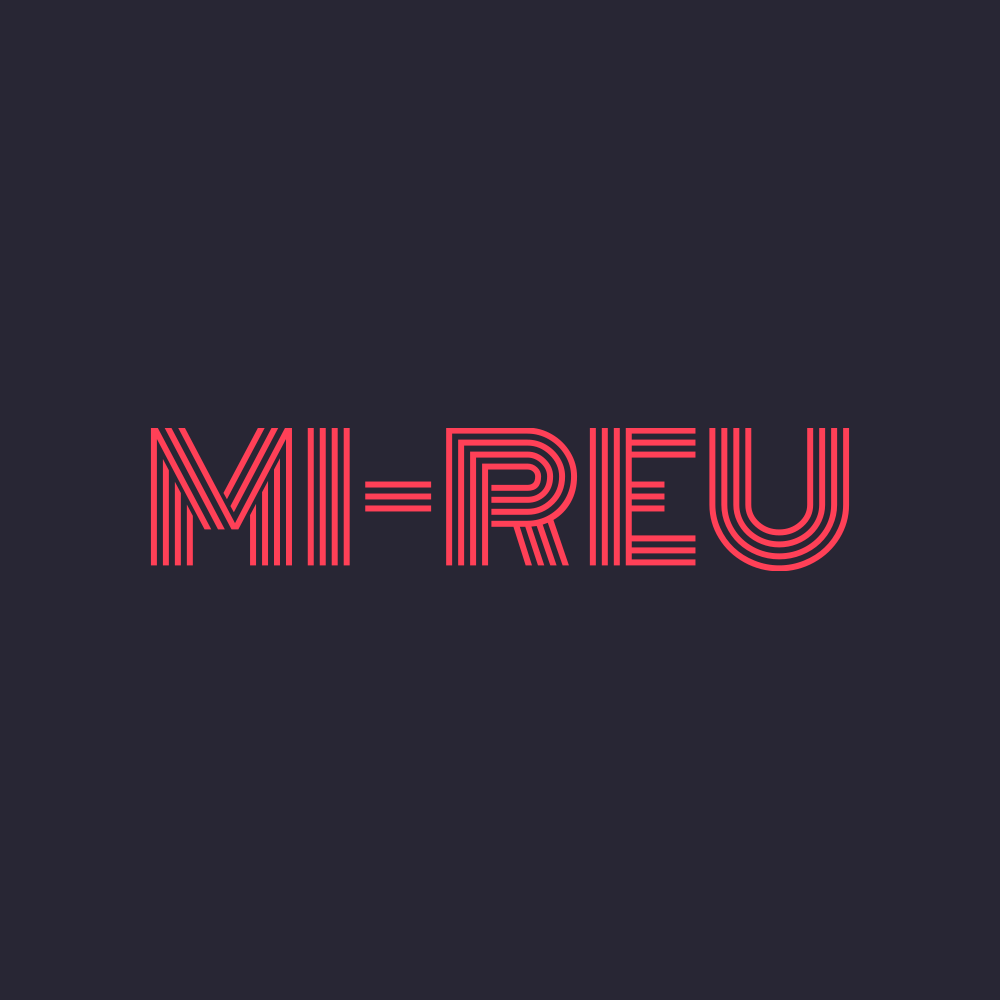
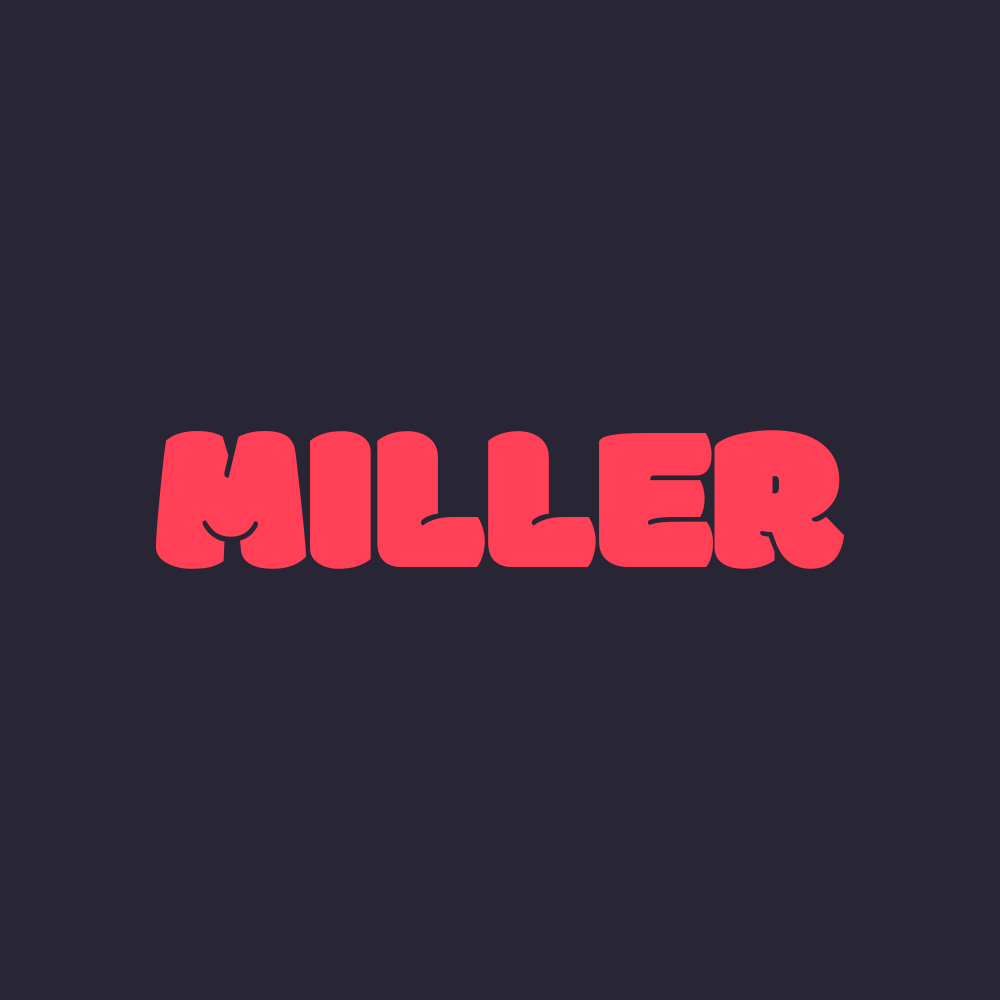
블로그 내용 업데이트

Changed region(s): [[0.124, 0.403, 0.868, 0.589]]

diff --git a/data/siteMetadata.js b/data/siteMetadata.js
@@ -1,6 +1,6 @@
 const siteMetadata = {
-  title: 'dev.mi-reu',
-  author: 'mi-reu',
+  title: `Miller's dev.log`,
+  author: 'Miller',
   headerTitle: 'dev.log',
   description: '',
   language: 'ko-KR',
